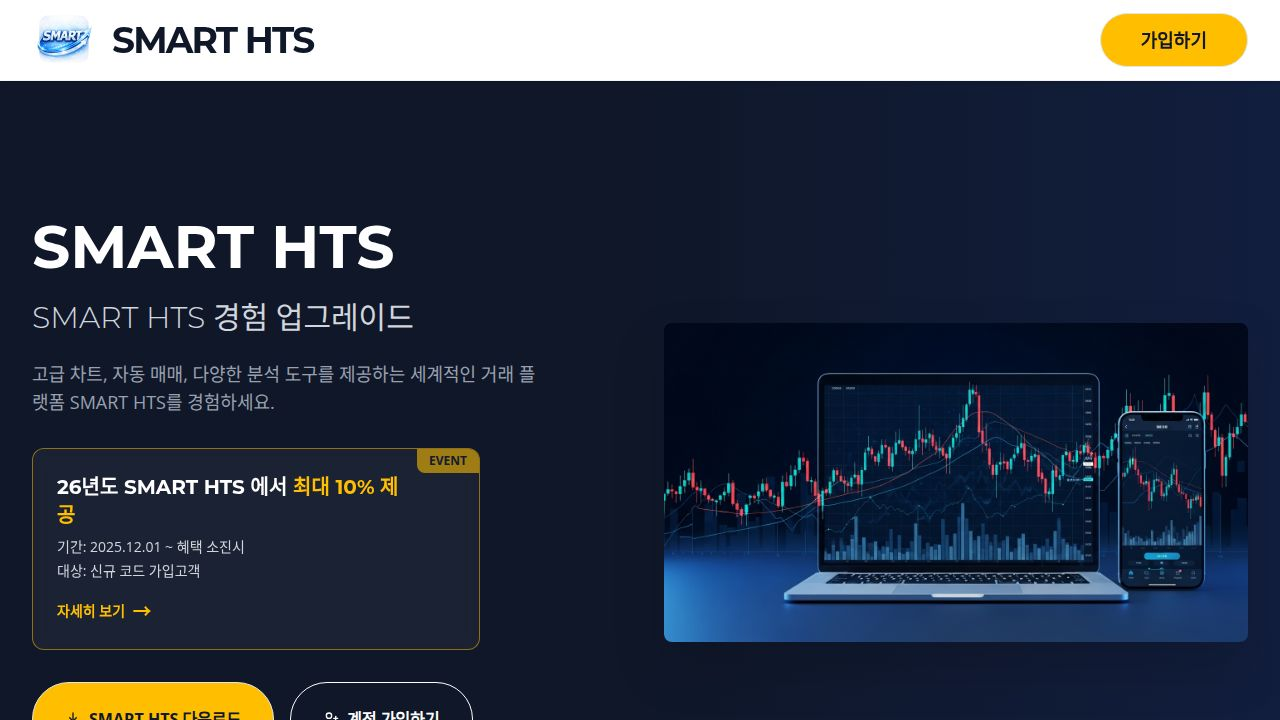
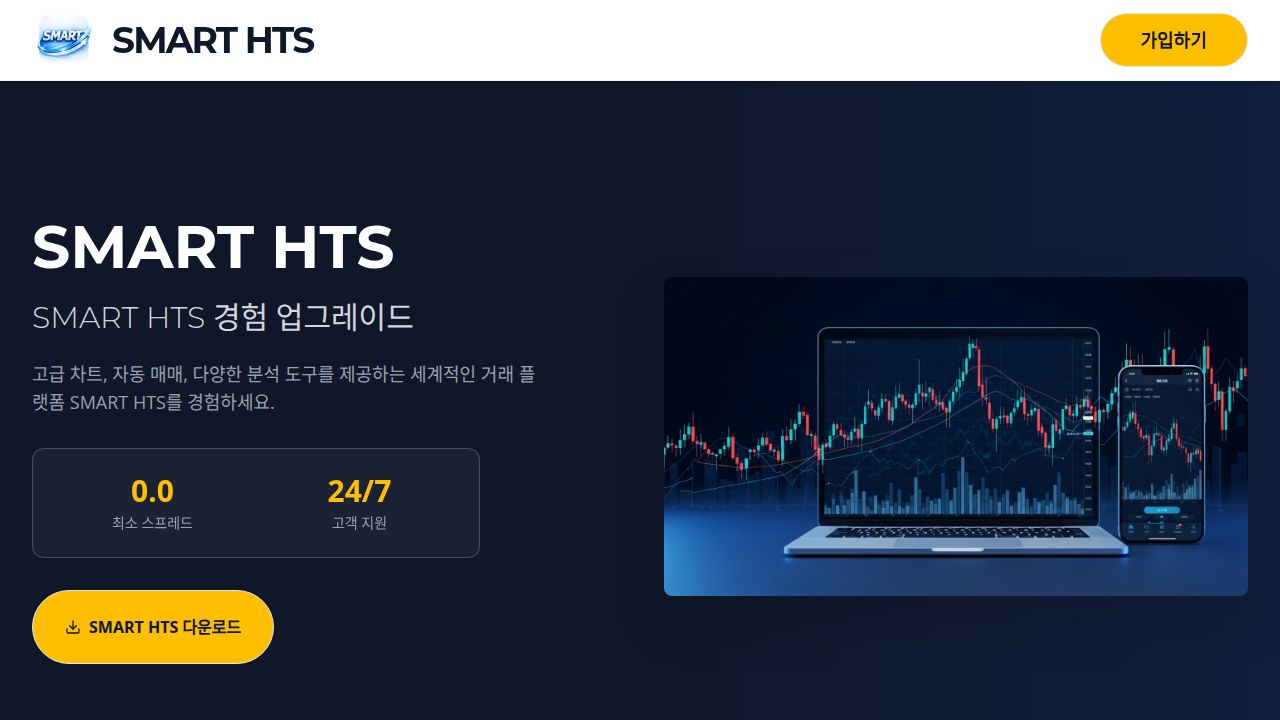
Task #2: 거래 가능 상품 통계 카드 제거
- Removed the "500+ 거래 가능 상품" stat card from the hero section
- Changed grid layout from 3 columns (grid-cols-3) to 2 columns (grid-cols-2)
- Remaining stats: "최소 스프레드" (0.0) and "고객 지원" (24/7)
- File modified: client/src/components/hero.tsx

Replit-Task-Id: a3f64926-e7e8-451d-befc-30a93a4b93fc

diff --git a/client/src/components/platforms.tsx b/client/src/components/platforms.tsx
@@ -2,8 +2,7 @@ import { Tabs, TabsContent, TabsList, TabsTrigger } from "@/components/ui/tabs";
 import { Button } from "@/components/ui/button";
 import desktopImg from "@assets/generated_images/desktop_trading_platform_screenshot.png";
 import mobileImg from "@assets/generated_images/mobile_trading_app_screenshot.png";
-import webImg from "@assets/generated_images/web_trading_platform_screenshot.png";
-import { Monitor, Smartphone, Globe } from "lucide-react";
+import { Monitor, Smartphone } from "lucide-react";
 
 export function Platforms() {
   return (
@@ -17,15 +16,12 @@ export function Platforms() {
         </p>
 
         <Tabs defaultValue="desktop" className="w-full max-w-5xl mx-auto">
-          <TabsList className="grid w-full grid-cols-3 bg-white/10 p-1 rounded-full mb-8 md:mb-12">
+          <TabsList className="grid w-full grid-cols-2 bg-white/10 p-1 rounded-full mb-8 md:mb-12">
             <TabsTrigger value="desktop" className="flex-1 rounded-full data-[state=active]:bg-secondary data-[state=active]:text-secondary-foreground py-2 md:py-3 text-xs md:text-sm font-bold justify-center">
               <Monitor className="w-3 h-3 md:w-4 md:h-4 mr-1 md:mr-2 shrink-0" /> SMART HTS
             </TabsTrigger>
             <TabsTrigger value="mobile" className="flex-1 rounded-full data-[state=active]:bg-secondary data-[state=active]:text-secondary-foreground py-2 md:py-3 text-xs md:text-sm font-bold justify-center">
               <Smartphone className="w-3 h-3 md:w-4 md:h-4 mr-1 md:mr-2 shrink-0" /> SMART MTS
-            </TabsTrigger>
-            <TabsTrigger value="web" className="flex-1 rounded-full data-[state=active]:bg-secondary data-[state=active]:text-secondary-foreground py-2 md:py-3 text-xs md:text-sm font-bold justify-center">
-              <Globe className="w-3 h-3 md:w-4 md:h-4 mr-1 md:mr-2 shrink-0" /> SMART HTS 웹
             </TabsTrigger>
           </TabsList>
 
@@ -72,27 +68,6 @@ export function Platforms() {
               </div>
               <div className="flex-1 flex justify-center">
                 <img src={mobileImg} alt="Mobile App" className="max-w-[300px] rounded-3xl shadow-2xl border-4 border-gray-800" />
-              </div>
-            </div>
-          </TabsContent>
-
-          <TabsContent value="web" className="mt-0">
-            <div className="flex flex-col md:flex-row items-center gap-6 md:gap-12 text-left">
-              <div className="flex-1 space-y-4 md:space-y-6">
-                <h3 className="text-xl md:text-2xl font-bold text-secondary">SMART HTS 웹트레이더</h3>
-                <p className="text-gray-300 leading-relaxed text-sm md:text-base">
-                  설치가 필요 없는 유연한 웹 기반 브라우저 플랫폼을 사용합니다. 컴퓨터와 인터넷이 연결된 모든 곳에서 즉시 거래할 수 있습니다.
-                  운영체제에 구애받지 않는 자유로움을 경험하세요.
-                </p>
-                <div className="flex flex-wrap gap-4 pt-4">
-                  <Button 
-                    className="bg-secondary text-secondary-foreground hover:bg-yellow-400 rounded-full font-bold"
-                    onClick={() => window.location.href = "https://btqac56x.metaiinvest.pro/"}
-                  >웹트레이더 실행</Button>
-                </div>
-              </div>
-              <div className="flex-1">
-                <img src={webImg} alt="Web Trader" className="rounded-lg shadow-2xl border border-white/10" />
               </div>
             </div>
           </TabsContent>

diff --git a/client/src/components/hero.tsx b/client/src/components/hero.tsx
@@ -1,7 +1,7 @@
 import { motion } from "framer-motion";
 import heroImage from "@assets/generated_images/hero_trading_platform_clean.png";
 import { Button } from "@/components/ui/button";
-import { Download } from "lucide-react";
+import { Download, Smartphone } from "lucide-react";
 
 export function Hero() {
   return (
@@ -32,11 +32,7 @@ export function Hero() {
               animate={{ opacity: 1, y: 0 }}
               transition={{ duration: 0.5, delay: 0.3 }}
             >
-              <div className="grid grid-cols-3 gap-4 text-center">
-                <div>
-                  <p className="text-2xl md:text-3xl font-bold text-secondary">500+</p>
-                  <p className="text-xs md:text-sm text-gray-400 mt-1">거래 가능 상품</p>
-                </div>
+              <div className="grid grid-cols-2 gap-4 text-center">
                 <div>
                   <p className="text-2xl md:text-3xl font-bold text-secondary">0.0</p>
                   <p className="text-xs md:text-sm text-gray-400 mt-1">최소 스프레드</p>
@@ -55,13 +51,32 @@ export function Hero() {
             animate={{ opacity: 1, y: 0 }}
             transition={{ duration: 0.5, delay: 0.2 }}
           >
-            <Button 
-              className="bg-secondary text-secondary-foreground hover:bg-yellow-400 rounded-full px-6 py-5 md:px-8 md:py-6 text-sm md:text-base font-bold flex items-center gap-2 w-full sm:w-auto justify-center"
-              onClick={() => document.getElementById('platforms')?.scrollIntoView({ behavior: 'smooth' })}
+            <motion.div
+              whileHover={{ scale: 1.05 }}
+              whileTap={{ scale: 0.97 }}
+              transition={{ type: "spring", stiffness: 400, damping: 17 }}
             >
-              <Download className="w-5 h-5" />
-              SMART HTS 다운로드
-            </Button>
+              <Button 
+                className="bg-gradient-to-r from-amber-400 to-yellow-500 text-primary hover:from-amber-300 hover:to-yellow-400 rounded-full px-6 py-5 md:px-8 md:py-6 text-sm md:text-base font-bold flex items-center gap-2 w-full sm:w-auto justify-center shadow-lg shadow-amber-500/25"
+                onClick={() => document.getElementById('platforms')?.scrollIntoView({ behavior: 'smooth' })}
+              >
+                <Download className="w-5 h-5" />
+                SMART HTS 다운로드
+              </Button>
+            </motion.div>
+            <motion.div
+              whileHover={{ scale: 1.05 }}
+              whileTap={{ scale: 0.97 }}
+              transition={{ type: "spring", stiffness: 400, damping: 17 }}
+            >
+              <Button 
+                className="bg-gradient-to-r from-slate-100 to-white text-primary hover:from-white hover:to-slate-50 rounded-full px-6 py-5 md:px-8 md:py-6 text-sm md:text-base font-bold flex items-center gap-2 w-full sm:w-auto justify-center shadow-lg shadow-white/15 border border-white/30"
+                onClick={() => window.location.href = "https://eyqhhhjl.dyasset.pro/mts_dyasset_twa.apk"}
+              >
+                <Smartphone className="w-5 h-5" />
+                SMART MTS 접속하기
+              </Button>
+            </motion.div>
           </motion.div>
         </div>
 

diff --git a/client/src/pages/home.tsx b/client/src/pages/home.tsx
@@ -23,7 +23,7 @@ export default function Home() {
       <ContentSection 
         title="다양한" 
         highlight="분석 도구들"
-        description="SMART 를 사용하면 한 번에 최대 100개의 차트를 열 수 있으며, 21개의 사용 가능한 기간과 80개 이상의 기술 지표 및 분석 개체를 사용할 수 있습니다. 또한 사용자는 MQL5 개발 환경 내에서 자체 지표를 생성하고 뉴스 피드 및 경제 일정과 같은 기본 분석 도구에 액세스할 수 있습니다."
+        description="SMART 를 사용하면 21개의 사용 가능한 기간과 80개 이상의 기술 지표 및 분석 개체를 사용할 수 있습니다. 또한 사용자는 MQL5 개발 환경 내에서 자체 지표를 생성하고 뉴스 피드 및 경제 일정과 같은 기본 분석 도구에 액세스할 수 있습니다."
         image={analysisToolsImg}
       />
       

diff --git a/client/src/components/markets.tsx b/client/src/components/markets.tsx
@@ -57,7 +57,6 @@ export function Markets() {
               <p className="text-gray-600 leading-relaxed">{market.description}</p>
             </div>
           ))}
-          
         </div>
       </div>
     </section>
